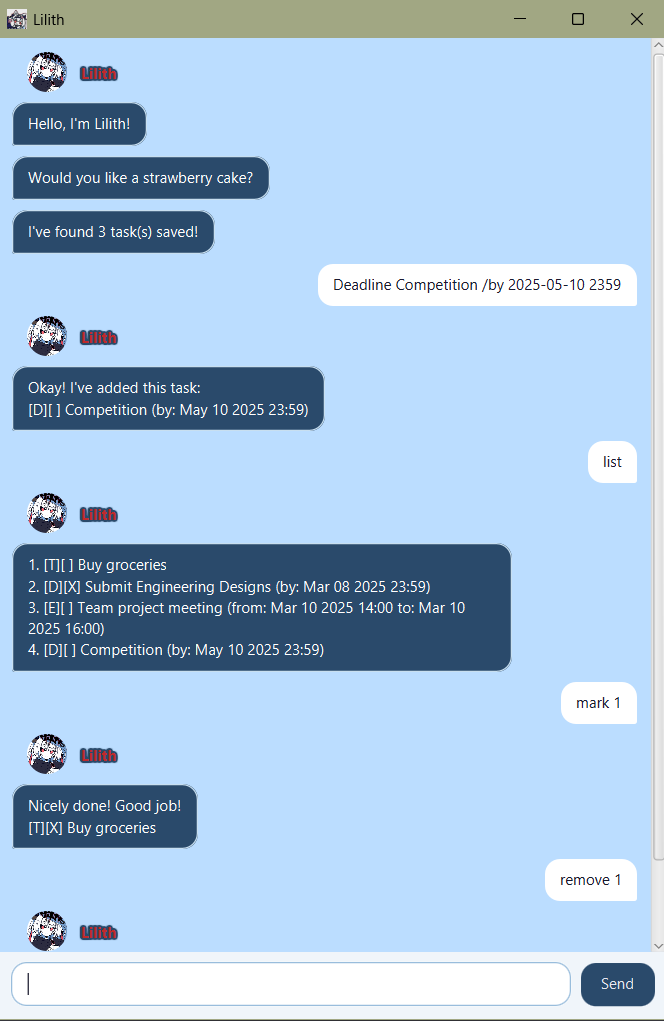
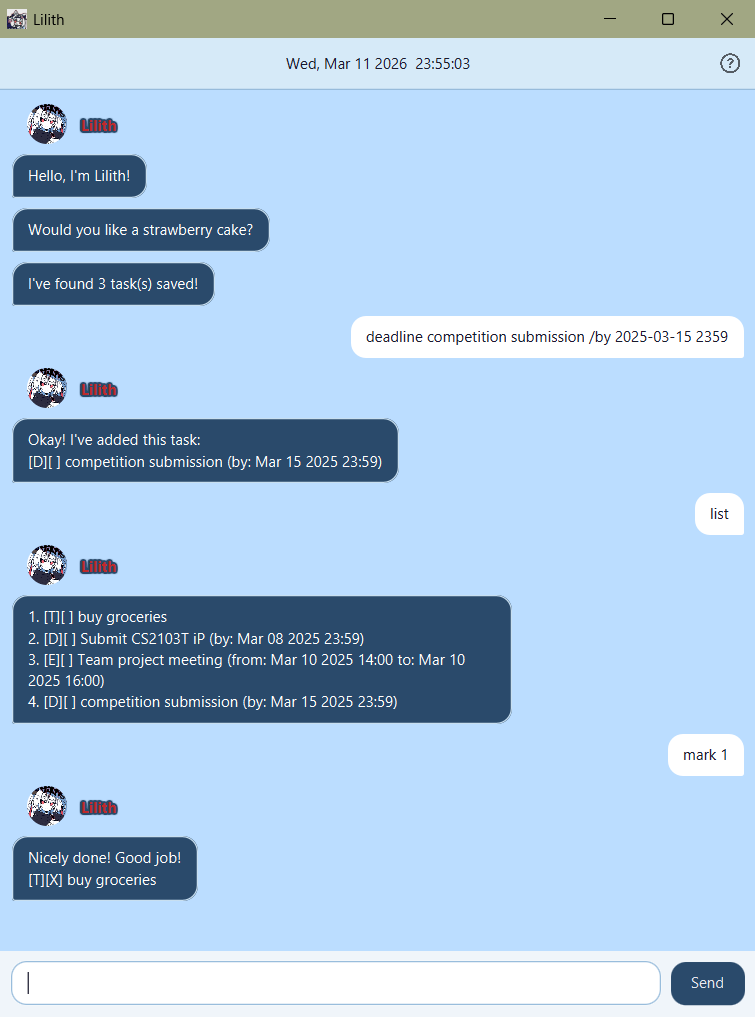
Updated docs/README.md and Ui.png to reflect the addition of the header. Edited Lilith.java and Storage.java in accordance to Gradle Checkstyle.

diff --git a/src/main/java/lilith/storage/Storage.java b/src/main/java/lilith/storage/Storage.java
@@ -17,6 +17,7 @@ public class Storage {
 
     private final Path filePath;
     private String loadError = null;
+    private final ArrayList<String> corruptedLines = new ArrayList<>();
 
     /**
      * Constructs a Storage object with the given file path.
@@ -34,12 +35,10 @@ public class Storage {
         return loadError;
     }
 
-    private final ArrayList<String> corruptedLines = new ArrayList<>();
-
     /**
      * Returns a list of any corrupted lines that were skipped during loadTasks().
      */
-        public ArrayList<String> getCorruptedLines() {
+    public ArrayList<String> getCorruptedLines() {
         return corruptedLines;
     }
 

diff --git a/src/main/java/lilith/Lilith.java b/src/main/java/lilith/Lilith.java
@@ -161,7 +161,7 @@ public class Lilith extends Application {
         HBox.setHgrow(leftSpacer, Priority.ALWAYS);
 
         // Dynamically adjust left spacer to keep clock centered when help button is visible
-        helpButton.layoutBoundsProperty().addListener((obs, oldVal, newVal) -> 
+        helpButton.layoutBoundsProperty().addListener((obs, oldVal, newVal) ->
             leftSpacer.setMinWidth(newVal.getWidth())
         );
 

diff --git a/docs/README.md b/docs/README.md
@@ -1,6 +1,6 @@
 # Lilith
 
-Lilith is a personal task management chatbot with a themed GUI, inspired by the character Lilith. She helps you manage todos, deadlines, and events — with a personality to match.
+Lilith is a personal task management chatbot with a themed GUI. She helps you manage todos, deadlines, and events.
 
 ![Ui](Ui.png)
 
@@ -43,11 +43,11 @@ Lilith supports three types of tasks:
 | `find <keyword>` | Search tasks by name | `find book` |
 | `mark <index>` | Mark a task as done | `mark 1` |
 | `unmark <index>` | Mark a task as not done | `unmark 1` |
-| `update <index> [fields]` | Edit an existing task | `update 1 /name new name` |
+| `update <index> [/name] [/by] [/from] [/to]` | Edit an existing task | `update 1 /name new name` |
 | `delete <index>` | Delete a task | `delete 1` |
 | `/emptyall` | Clear all tasks | `/emptyall` |
 | `bye` | Exit the app | `bye` |
-| `cheer` | You look like you need it | `cheer` |
+| `cheer` | Sends an encouraging message or a surprise! | `cheer` |
 
 ### Update Command Fields
 The `update` command accepts any combination of these fields:
@@ -118,7 +118,7 @@ The JAR then can be found in `build/libs/Lilith.jar`.
 ## Acknowledgments & Credits
 
 ### Character & Aesthetic
-* **Source Material:** The character **Lilith**, her name, and the high-contrast visual theme are inspired by the game *The NOexistenceN of you AND me*.
+* **Source Material:** The character **Lilith**, her name, and the visual theme are inspired by the game *The NOexistenceN of you AND me*.
 * **Visual Assets:** The bot's profile picture (`pfp.png`) and thematic icons (like the strawberry cake) are from or adapted from the original game assets for educational and non-commercial use.
 
 ### Technical Credits
